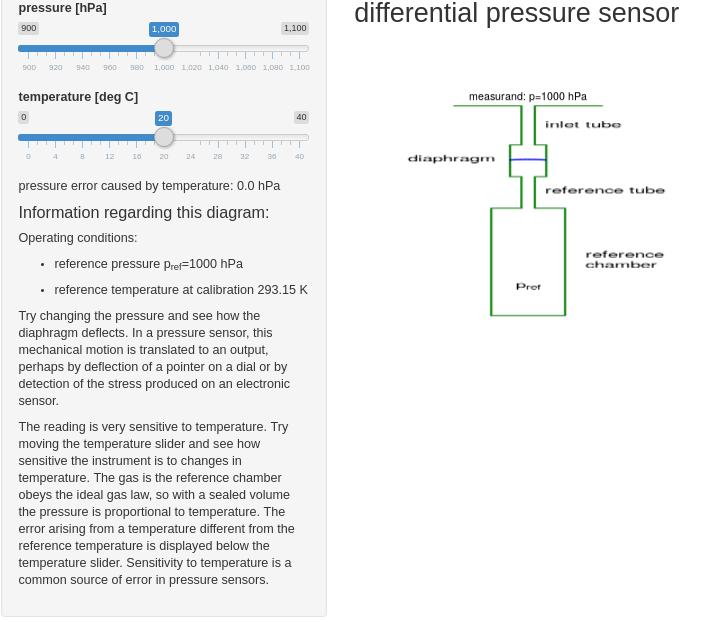
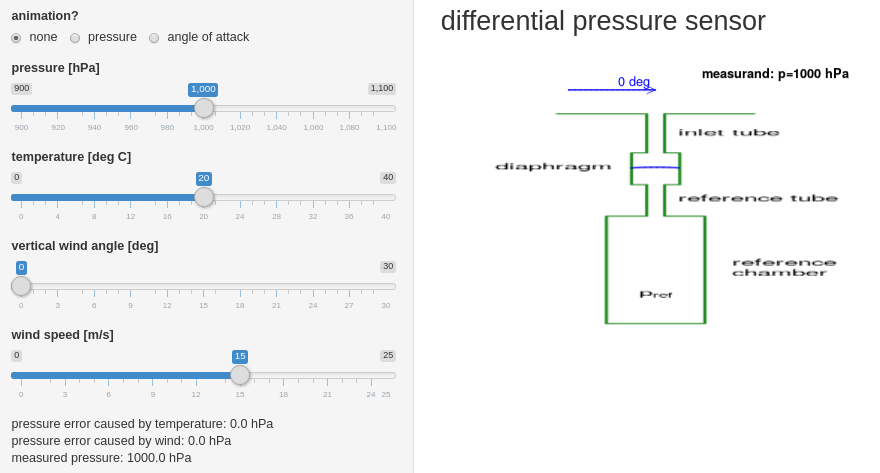
Modified SensorDiaphragm to include effects of downdraft and to list measurement and measurand in title, and changed ranges and amplitude of response.

diff --git a/SensorDiaphragm/HTML/SensorDiaphragm.html b/SensorDiaphragm/HTML/SensorDiaphragm.html
@@ -3,11 +3,15 @@
 <head>
 	<meta http-equiv="content-type" content="text/html; charset=utf-8"/>
 	<title></title>
-	<meta name="generator" content="LibreOffice 5.3.7.1 (Linux)"/>
+	<meta name="generator" content="LibreOffice 5.3.7.2.0 (Linux)"/>
 	<meta name="author" content="Al Cooper"/>
-	<meta name="created" content="2017-10-30T10:31:05.679071749"/>
+	<meta name="created" content="00:00:00"/>
 	<meta name="changedby" content="Al Cooper"/>
-	<meta name="changed" content="2017-10-30T11:12:09.371235075"/>
+	<meta name="changed" content="2017-11-15T16:47:38.908576501"/>
+	<!DOCTYPE HTML PUBLIC "-//W3C//DTD HTML 4.0 Transitional//EN">
+	<meta name="created" content="2017-10-30T10:31:05.679071749">
+	<meta name="changedby" content="Al Cooper">
+	<meta name="changed" content="2017-10-30T11:12:09.371235075">
 </head>
 <body lang="en-US" dir="ltr">
 <p><font face="Liberation Sans, sans-serif">Operating conditions: </font>
@@ -21,10 +25,10 @@
 	temperature at calibration 293.15 K</font></p>
 </ul>
 <p><font face="Liberation Sans, sans-serif">Try changing the pressure
-and see how the diaphragm deflects. In a pressure sensor, this
-mechanical motion is translated to an output, perhaps by deflection
-of a pointer on a dial or by detection of the stress produced on an
-electronic sensor. </font>
+and see how the diaphragm deflects. Or enable the &quot;pressure&quot;
+animation radio button. In a pressure sensor, this mechanical motion
+is translated to an output, perhaps by deflection of a pointer on a
+dial or by detection of the stress produced on an electronic sensor. </font>
 </p>
 <p><font face="Liberation Sans, sans-serif">The reading is very
 sensitive to temperature. Try moving the temperature slider and see
@@ -34,5 +38,10 @@ volume the pressure is proportional to temperature. The error arising
 from a temperature different from the reference temperature is
 displayed below the temperature slider. Sensitivity to temperature is
 a common source of error in pressure sensors.</font></p>
+<p><font face="Liberation Sans, sans-serif">The reading is also
+sensitive to the direction of the wind relative to the surface of the
+sensor, because downward motion of the wind increases the pressure at
+the entrance to the inlet tube. Explore this by varying the angle of
+attack and the airspeed.</font></p>
 </body>
 </html>
